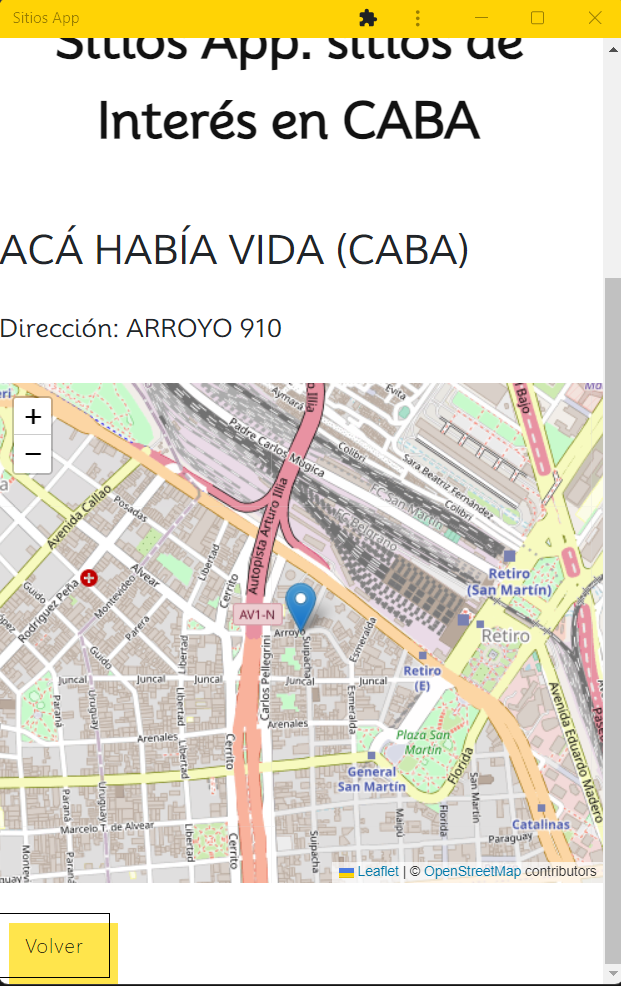
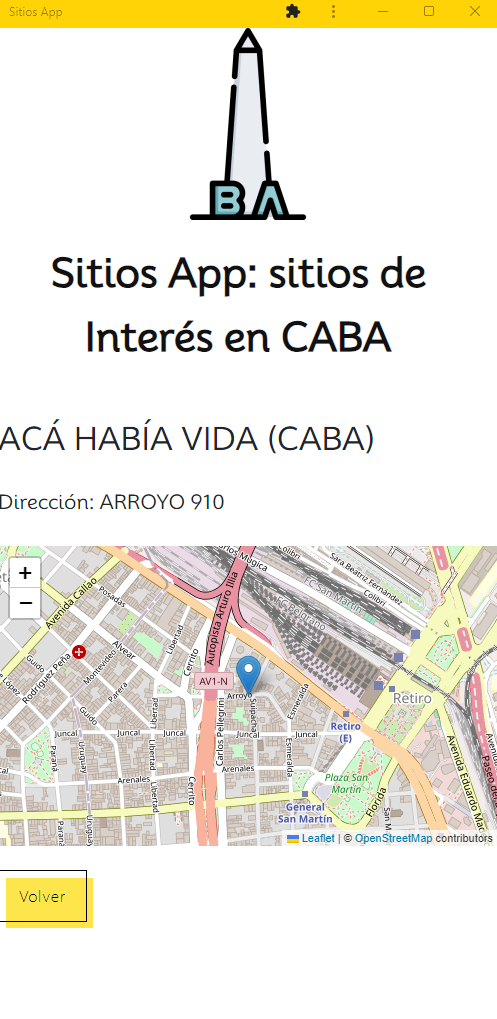
map invalidate size

diff --git a/src/app/direccion/direccion.component.ts b/src/app/direccion/direccion.component.ts
@@ -29,6 +29,12 @@ export class DireccionComponent {
     L.marker([this.lat, this.long]).addTo(this.map)
   }
 
+  onMapReady(map: L.Map) {
+    setTimeout(() => {
+      map.invalidateSize();
+    }, 0);
+}
+
   extractAndStoreNumbers(responseString: string) {
     const numberPattern = '[-]{0,1}[\\d]*[\\.]{0,1}[\\d]+';
     const regex = new RegExp(numberPattern, 'g');

diff --git a/src/app/direccion/direccion.component.html b/src/app/direccion/direccion.component.html
@@ -4,7 +4,7 @@
     <h5>Dirección: {{altura}}</h5>
   </div>
   <br>
-  <div  *ngIf="!error" id="leafletMap" style="width: 100%; height: 300px;"></div>
+  <div  *ngIf="!error" id="leafletMap"  leaflet (leafletMapReady)="onMapReady(map)" style="width: 100%; height: 300px;"></div>
   <div class="error-message" *ngIf="error">
     Map Not Available
   </div>
